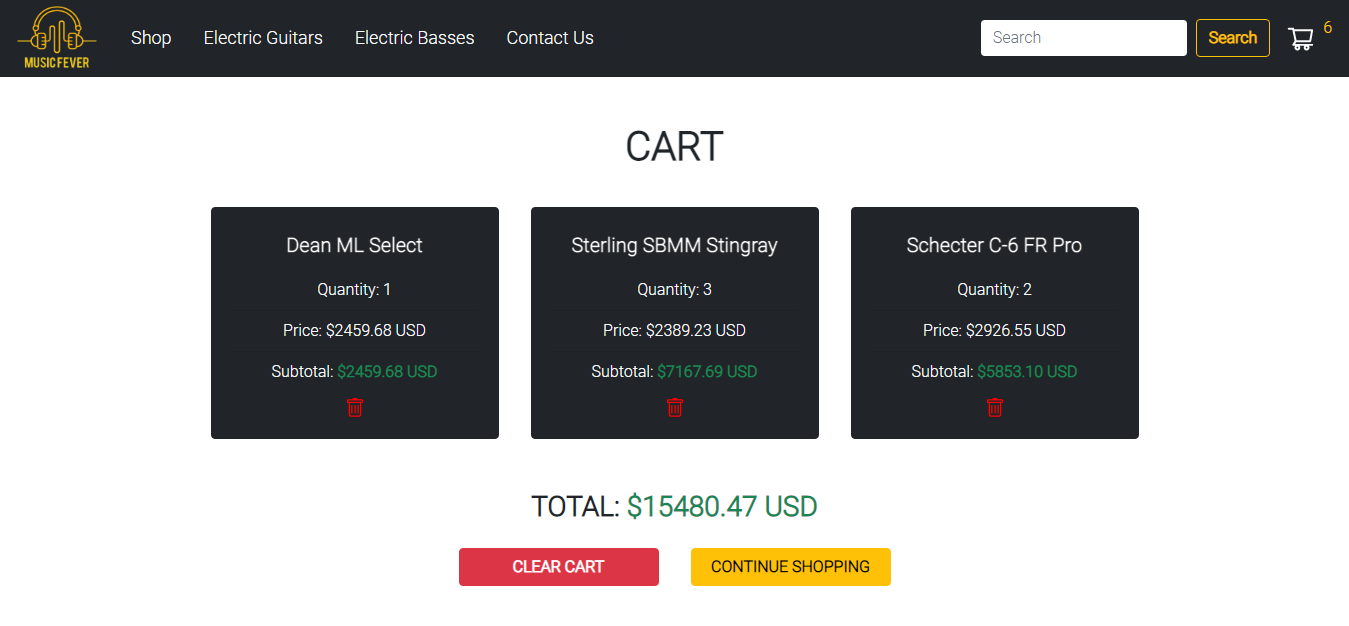
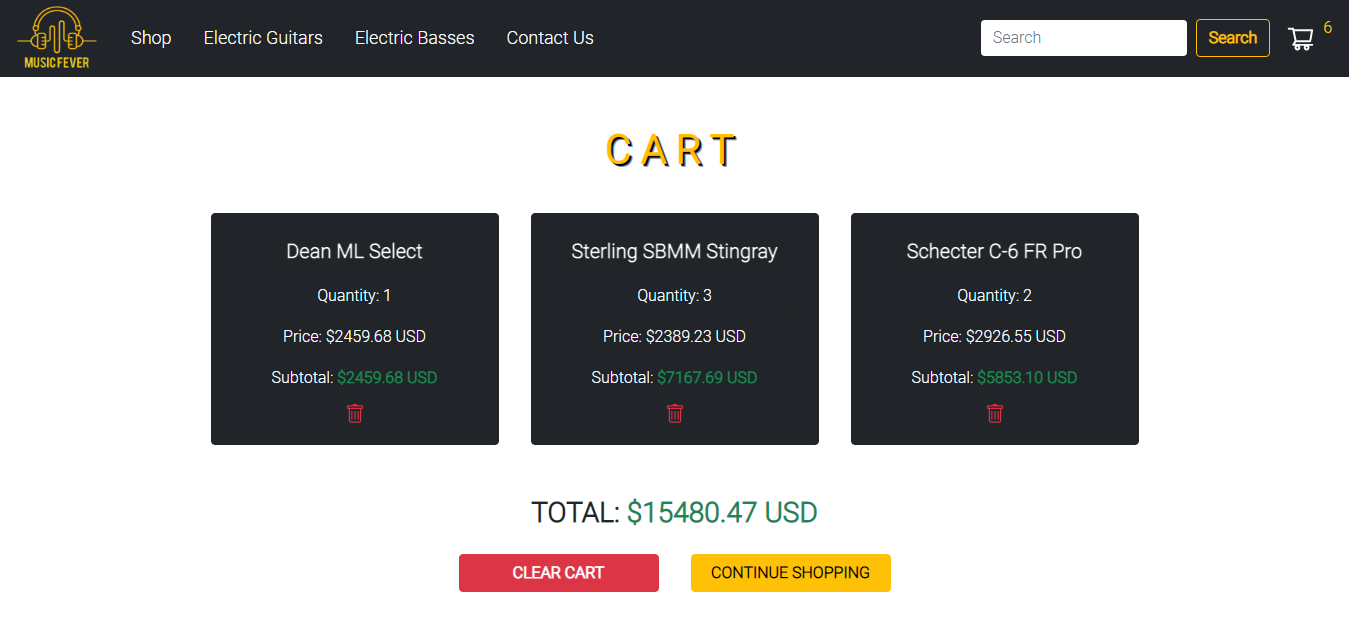
Proyecto Final

diff --git a/src/components/ItemList/ItemList.jsx b/src/components/ItemList/ItemList.jsx
@@ -1,20 +1,21 @@
 import React from "react";
+import Carousel from "../Carousel/Carousel";
 import Category from "../../views/Category/Category";
 import Item from "../Item/Item";
 import Spinner from "../Spinner/Spinner";
+import "./ItemList.css"
 
 const ItemList = ({ items, category }) => {
   return (
     <>
       {items.length && !category > 0 ? (
         <div>
-          <div>
-            <h1 className="page-titles text-uppercase">Music Fever</h1>
+          <div className="title-text">
+            <h1>Music Fever</h1>
+            <h2>Web Store</h2>
           </div>
-          <div>
-            <h2 className="page-titles text-uppercase mt-0">Web Store</h2>
-          </div>
-          <p className="shop-subtitle">Swipe down to meet the power of music!</p>
+          <Carousel />
+          <p className="shop-subtitle text-uppercase">Swipe down to meet the power of music!</p>
         </div>
       ) : (
         <Category items={items} category={category}/>

diff --git a/src/views/ContactUs/ContactUs.jsx b/src/views/ContactUs/ContactUs.jsx
@@ -9,15 +9,15 @@ import "./ContactUs.css";
 const ContactUs = () => {
   return (
     <div className="contact-container">
+      <div className="title-text">
+        <h1>Contact Us</h1>
+      </div>
+      <div className="my-4">
+        <img className="contact-img" src={contact} alt="Contact Img" />
+      </div>
       <div>
-        <h1 className="page-titles text-uppercase">Contact Us</h1>
-        <div className="my-4">
-          <img className="contact-img" src={contact} alt="Contact Img" />
-        </div>
-        <div>
-          <p className="contact-subtitle">Have any questions?</p>
-          <p className="contact-subtitle">Swipe down, we'd love to hear from you!</p>
-        </div>
+        <p className="contact-subtitle">Have any questions?</p>
+        <p className="contact-subtitle">Swipe down, we'd love to hear from you!</p>
       </div>
       <div className="d-block mt-5">
         <h3 className="page-titles text-uppercase">Get in touch!</h3>

diff --git a/src/components/CartModal/CartModal.jsx b/src/components/CartModal/CartModal.jsx
@@ -3,7 +3,7 @@ import { CartContext } from "../../context/CartProvider";
 import "./CartModal.css";
 
 const CartModal = ({ id, orderID }) => {
-    const { clearItems } = useContext(CartContext);
+    const { clearItems, totalPrice } = useContext(CartContext);
 
     const closeModal = () => {
         clearItems();
@@ -26,7 +26,7 @@ const CartModal = ({ id, orderID }) => {
                         ></button>
                     </div>
                     <div className="modal-body bg-dark text-light">
-                        <p className="mt-2">Your order has been completed successfully.</p>
+                        <p className="mt-2">Your order for <span className="text-success price-modal">${totalPrice().toFixed(2)} USD</span> has been completed successfully.</p>
                         <p>
                         This is your order code:{" "}
                         <span className="order-code text-success">{orderID}</span>.

diff --git a/src/views/Cart/Cart.jsx b/src/views/Cart/Cart.jsx
@@ -7,22 +7,13 @@ import empty from "../../assets/images/empty.png";
 import "./Cart.css";
 
 const Cart = () => {
-  const { items, removeItem, clearItems } = useContext(CartContext);
-
-  const totalPrice = () => {
-    const totalByItem = items.map((item) => {
-      return item.price * item.quantity;
-    });
-    return totalByItem.reduce((a, b) => {
-      return a + b;
-    }, 0);
-  };
+  const { items, removeItem, clearItems, totalPrice } = useContext(CartContext);
 
   return (
     <div className="my-5">
       {items.length > 0 && (
-        <div className="cart-title">
-          <h1 className="page-titles text-uppercase">Cart</h1>
+        <div className="title-text">
+          <h1 className="my-3">Cart</h1>
         </div>
       )}
       {items.length > 0 ? (

diff --git a/src/views/Category/Category.jsx b/src/views/Category/Category.jsx
@@ -3,12 +3,12 @@ import React from 'react'
 const Category = ({ items, category }) => {
     const categoryTitle = () => {
         if (category === "electric-guitars") {
-            return  <div>
-                        <h1 className="page-titles text-uppercase my-4">Electric Guitars</h1>
+            return  <div className="title-text">
+                        <h1 className="my-4">Electric Guitars</h1>
                     </div>
         } else {
-            return  <div>
-                        <h1 className="page-titles text-uppercase my-4">Electric Basses</h1>
+            return  <div className="title-text">
+                        <h1 className="my-4">Electric Basses</h1>
                     </div>
         }
     }

diff --git a/src/components/Carousel/Carousel.jsx b/src/components/Carousel/Carousel.jsx
@@ -1,0 +1,21 @@
+import React from 'react'
+import Shop01 from "../../assets/images/shop01.png"
+import Shop02 from "../../assets/images/shop02.png"
+import Shop03 from "../../assets/images/shop03.png"
+import Shop04 from "../../assets/images/shop04.png"
+import "./Carousel.css"
+
+const Carousel = () => {
+    return (
+        <div className="d-flex justify-content-center carousel-m">
+            <div className="slides">
+            <img src={Shop01} alt="Shop Img" />
+            <img src={Shop02} alt="Shop Img" />
+            <img src={Shop03} alt="Shop Img" />
+            <img src={Shop04} alt="Shop Img" />
+            </div>
+        </div>
+    )
+}
+
+export default Carousel

diff --git a/src/components/Carousel/Carousel.css b/src/components/Carousel/Carousel.css
@@ -1,0 +1,38 @@
+.slides {
+    display: grid;
+    grid-auto-flow: column;
+    gap: 1rem;
+    overflow-y: auto;
+    overscroll-behavior-x: contain;
+    scroll-snap-type: x mandatory;
+    scrollbar-width: none;
+    width: 93.5%;
+}
+
+.slides > img {
+    scroll-snap-align: start;
+}
+
+.slides img {
+    border-radius: 10px;
+    width: 540px;
+    object-fit: contain;
+}
+
+.slides ::-webkit-scrollbar {
+    display: none;
+}
+
+.carousel-m {
+    margin: 50px 45px 50px 45px;
+}
+
+@media (max-width: 535px) {
+    .slides img {
+        width: 290px;
+    }
+
+    .carousel-m {
+        margin: 35px -12px 35px -12px;
+    }
+}

diff --git a/src/context/CartProvider.jsx b/src/context/CartProvider.jsx
@@ -39,8 +39,17 @@ const CartProvider = ({ children }) => {
     setItems([]);
   };
 
+  const totalPrice = () => {
+    const totalByItem = items.map((item) => {
+      return item.price * item.quantity;
+    });
+    return totalByItem.reduce((a, b) => {
+      return a + b;
+    }, 0);
+  };
+
   return (
-    <CartContext.Provider value={{ items, addItem, removeItem, clearItems }}>
+    <CartContext.Provider value={{ items, addItem, removeItem, clearItems, totalPrice }}>
       {children}
     </CartContext.Provider>
   );

diff --git a/src/components/ItemList/ItemList.css b/src/components/ItemList/ItemList.css
@@ -1,0 +1,18 @@
+.title-text {
+    font-size: 70px;
+    letter-spacing: 10px;
+    text-transform: uppercase;
+}
+
+.title-text h1, .title-text h2 {
+    color: #ffbe00;
+    text-shadow: 2px 2px #000, 3px 3px #86939e;
+    font-weight: bold;
+}
+
+@media (max-width: 535px) {
+    .title-text h1, .title-text h2 {
+        font-size: 25px;
+        letter-spacing: 5px;
+    }
+}

diff --git a/src/App.css b/src/App.css
@@ -82,6 +82,7 @@ body {
 .card-body h6,
 .btn,
 .contact-name,
+.price-modal,
 label {
   font-weight: bold;
 }
@@ -90,4 +91,10 @@ label {
   position: relative;
   bottom: 0;
   width: 100%;
+}
+
+@media (max-width: 535px) {
+    .shop-subtitle {
+      font-size: 20px;
+  }
 }

diff --git a/src/components/Card/Card.css b/src/components/Card/Card.css
@@ -48,6 +48,6 @@
     height: 20px;
     width: 20px;
     margin-top: 6px;
-    color: #f00;
+    color: #d82f43;
     cursor: pointer
 }

diff --git a/src/views/Cart/Cart.css b/src/views/Cart/Cart.css
@@ -1,7 +1,3 @@
-.cart-title {
-    margin-top: -8px;
-}
-
 .total-container h3 {
     font-weight: bold;
     margin-top: 35px;
